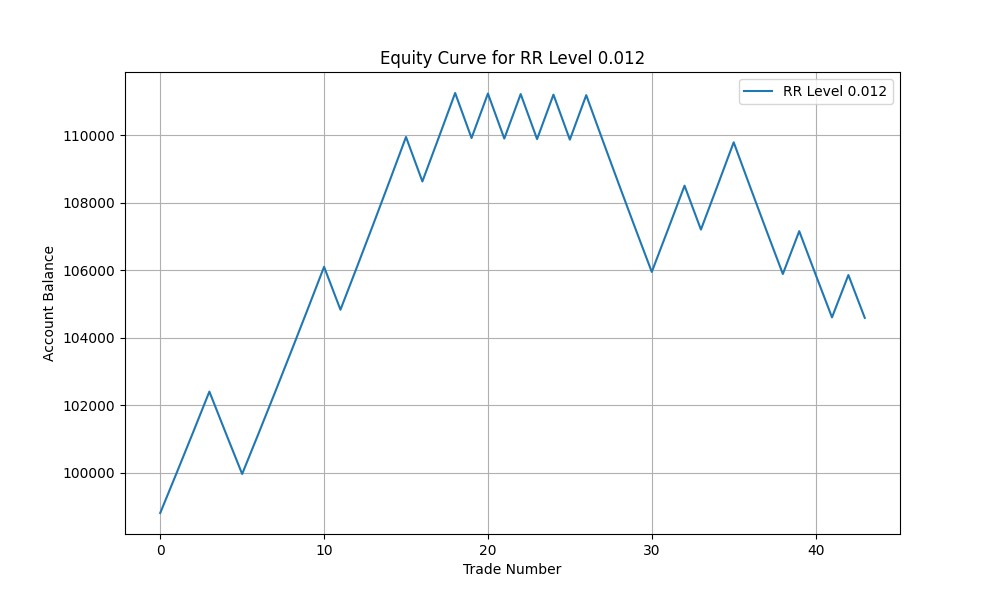
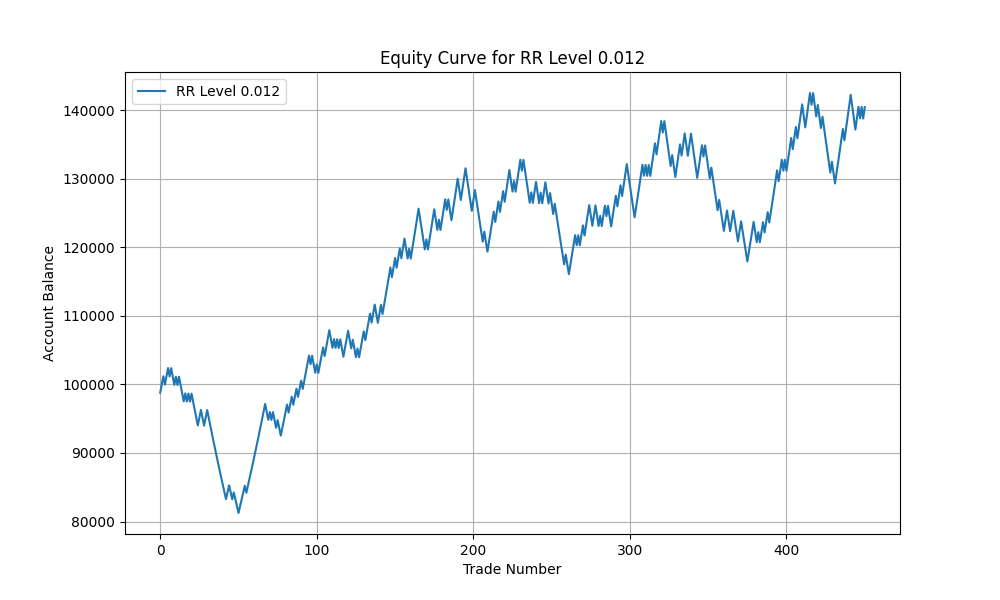
Update equity curves, portfolio simulation results, and scripts for new RR levels

diff --git a/Scripts/Portfolio_Sims.py b/Scripts/Portfolio_Sims.py
@@ -6,12 +6,15 @@ import argparse
 def simulate_portfolio(file_path, initial_balance):
     data = pd.read_csv(file_path)
 
-    # Filter data to include only rows from July 2024 onward
-    data['Entry_Time'] = pd.to_datetime(data['Entry_Time'])  # Ensure Date column is in datetime format
-    data = data[data['Entry_Time'] >= '2024-07-01']
+    # Ensure Entry_Time and Exit_Time columns are in datetime format
+    data['Entry_Time'] = pd.to_datetime(data['Entry_Time'])
+    data['Exit_Time'] = pd.to_datetime(data['Exit_Time'])
+
+    # Filter data to include only rows from June 2024 onward
+    data = data[data['Entry_Time'] >= '2020-01-01']
 
     if data.empty:
-        print(f"No data available for the period starting July 2024 in file: {file_path}")
+        print(f"No data available for the period starting June 2024 in file: {file_path}")
         return None, None
 
     # Initialize variables
@@ -23,8 +26,15 @@ def simulate_portfolio(file_path, initial_balance):
     max_drawdown = 0
     peak_balance = initial_balance
 
+    # Track the last exit time
+    last_exit_time = None
+
     # Simulate trades
     for index, row in data.iterrows():
+        # Skip trades whose entry time is before the last trade's exit time
+        if last_exit_time and row['Entry_Time'] <= last_exit_time:
+            continue
+
         trade_return = (row['Percentage_Return'] / 100) * account_balance
         account_balance += trade_return
         cumulative_returns.append(account_balance)
@@ -41,6 +51,9 @@ def simulate_portfolio(file_path, initial_balance):
             peak_balance = account_balance
         drawdown = (peak_balance - account_balance) / peak_balance
         max_drawdown = max(max_drawdown, drawdown)
+
+        # Update the last exit time
+        last_exit_time = row['Exit_Time']
 
     # Calculate final statistics
     total_return = (account_balance - initial_balance) / initial_balance * 100

diff --git a/Scripts/backtest.py b/Scripts/backtest.py
@@ -16,9 +16,9 @@ def main(file_15min, file_5min, file_1min, output_file):
     print("Datasets loaded successfully.")
 
     # Filter data to start from January 1, 2020
-    data_15min = data_15min[data_15min.index >= '2020-01-01']
-    data_5min = data_5min[data_5min.index >= '2020-01-01']
-    data_1min = data_1min[data_1min.index >= '2020-01-01']
+    data_15min = data_15min[data_15min.index >= '2024-06-01']
+    data_5min = data_5min[data_5min.index >= '2024-06-01']
+    data_1min = data_1min[data_1min.index >= '2024-06-01']
 
     # Initialize results list
     results = []
@@ -90,7 +90,7 @@ def main(file_15min, file_5min, file_1min, output_file):
 
             # Define stop-loss and target based on RR level
             stop_loss = entry_price * (1 - rr) if direction == 'long' else entry_price * (1 + rr)
-            target = entry_price * (1 + rr) if direction == 'long' else entry_price * (1 - rr)
+            target = entry_price * (1 + 2 * rr) if direction == 'long' else entry_price * (1 - 2 * rr)
 
             # Simulate trade outcomes using 1-minute data
             day_1min = data_1min[data_1min.index.date >= entry_time.date()]
